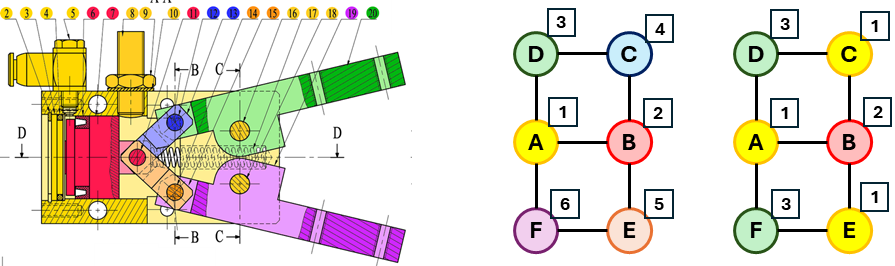
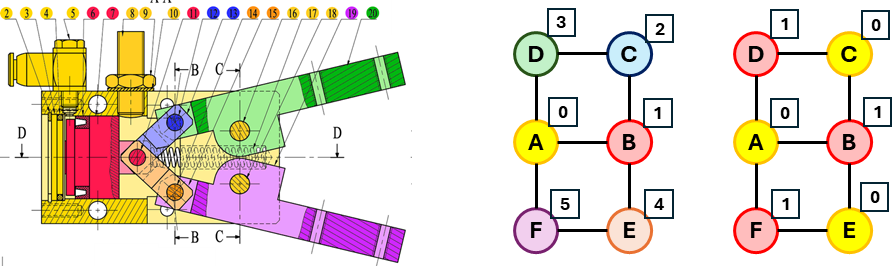
MAJ

diff --git a/Exercices/S2_06_Graphes/12_coloration_ccinp/12_coloration_ccinp.tex b/Exercices/S2_06_Graphes/12_coloration_ccinp/12_coloration_ccinp.tex
@@ -21,20 +21,29 @@ Dans un premier temps, on modèlise le graphe par un dictionnaire d'adjacence. L
 
 \question{Donner le dictionnaire d'adjacence \lstinline{Gex} associé au graphe de la figure \ref{12_coloration_fig_02}.}
 
-\question{Implémenter la fonction \lstinline|voisins(G:{}, s1:str, s2:str) -> bool}| renvoyant \lstinline{True} si \lstinline{s1} et \lstinline{s2} sont voisins, \lstinline{False} sinon.}
+\question{Implémenter la fonction \lstinline|voisins(G:{}, s1:str, s2:str) -> bool| renvoyant \lstinline{True} si \lstinline{s1} et \lstinline{s2} sont voisins, \lstinline{False} sinon.}
+
+\question{Implémenter la fonction \lstinline|is_graphe_correct(G:{}) -> bool| renvoyant \lstinline{True} si lorsque \lstinline{s1} et \lstinline{s2} sont voisins alors \lstinline{s2} et \lstinline{s1} sont voisins, \lstinline{False} sinon.}
+
+\question{Vérifier que \lstinline{Gex} est correctement implémenté. Le cas échéant, vérifier si le problème vient du graphe oiu de la fonction \lstinline|is_graphe_correct| .}
+
+\question{Implémenter la fonction  \lstinline|liste_aretes(G:{}) -> [()]|  qui renvoie la liste des arêtes du graphe. Une arête sera modélisée par un couple (tuple) de deux sommets. Le graphe étant non orienté, si \lstinline{('A','B')} est dans la liste, \lstinline{('B','A')} ne devra pas y figurer.}
 
 Une $k$-coloration est représentée par un dictionnaire \lstinline{C} pour lequel les clés sont les sommet des graphes et les valeurs sont des entiers (entre 0 et $k-1$) qui représentent la couleur du sommet.
+Dans le cadre du graphe précédent, on a donc \lstinline|C = {'A':0, 'B':1, 'C':0, 'D':1, 'E':0, 'F':1}|.
 
 On souhaite vérifier si une coloration est valide, c'est-à-dire que deux sommets du graphe reliés par une arête ne peuvent pas avoir la même couleur.
 
-\question{Implémenter la fonction \lstinline|coloration_valide(G:{}, C:{}) -> bool}| renvoyant \lstinline{True} si la coloration est valide, \lstinline{False} sinon.}
+\question{Implémenter la fonction \lstinline|coloration_valide(G:{}, C:{}) -> bool}| renvoyant \lstinline{True} si la coloration est valide, \lstinline{False} sinon. Tester votre fonction sur le dictionnaire de coloration précédent.}
+
+
 
 
 \subsection*{Algorithme intuitif de colaration}
 
 L’attribution des couleurs à chaque sommet est caractérisée par un dictionnaire \lstinline{C} où \lstinline{C[i]} est la couleur attribuée au sommet \lstinline{i}. \lstinline{C[i]} vaut \lstinline{-1} si la couleur n’est pas encore attribuée. Le dictionnaire \lstinline{C} ne contient initialement que des \lstinline{-1} et ses valeurs sont modifiées progressivement, au fur et à mesure que les couleurs sont attribuées.
 
-\question{Ecrire l'instruction permettant de créer un dictionnaire de $n$ clés numérotées de 0 à $n-1$ associées à la valeur \lstinline{-1}.}
+\question{Ecrire une fonction \lstinline{inti_c(G:{}) -> {}| permettant de créer un dictionnaire dont les clés sont identiques à celle du graphe. Ces cles sont associées à la valeur \lstinline{-1}.}
 
 \begin{question}
 Implémenter la fonction \lstinline|colore_sommet(G:{}, C:{}, s:str) -> None|. Cette fonction ne renvoie rien mais modifie le dictionnaire \lstinline{C} en donnant à \lstinline{C[s]} la plus petite couleur possible, en fonction des couleurs des sommets voisins qui sont déjà colorés.

diff --git a/Exercices/S2_06_Graphes/12_coloration_ccinp/12_coloration_corrige.py b/Exercices/S2_06_Graphes/12_coloration_ccinp/12_coloration_corrige.py
@@ -1,0 +1,48 @@
+Gex = {"A":["B","D","F"], "B":["A","C","E"],
+        "C":["B","D"], "D":["A","C"],
+        "E":["B","F"], "F":["A","E"]}
+
+
+def voisins(G:{}, s1:str, s2:str) -> bool:
+    return s1 in G[s2]
+
+def is_graphe_oriente_01(G:{}) -> bool :
+    for s in G :
+        for v in G[s] :
+            if s not in G[v] :
+                print(s,v)
+                return False
+    return True
+
+def is_graphe_oriente_02(G:{}) -> bool :
+    for s in G :
+        for v in G[s] :
+            if not(voisins(G,s,v)) or not(voisins(G,v,s)):
+                return False
+    return True
+
+
+def liste_aretes(G:{}) -> [()] :
+    L = []
+    for s in G :
+        for v in G[s] :
+            if ((v,s) not in L) and ((s,v) not in L) :
+                L.append((s,v))
+    return L
+
+def coloration_valide(G:{}, C:{}) -> bool :
+    L = liste_aretes(G)
+    for a in L :
+        s1,s2 = a
+        if C[s1] == C[s2] :
+            return False
+    return True
+
+C = {'A':0, 'B':1, 'C':0, 'D':1, 'E':0, 'F':1}
+C2 = {'A':0, 'B':1, 'C':1, 'D':1, 'E':0, 'F':1}
+
+def init_c(G:{}) -> {} :
+    C = {}
+    for k in G :
+        C[k] = -1
+    return C
